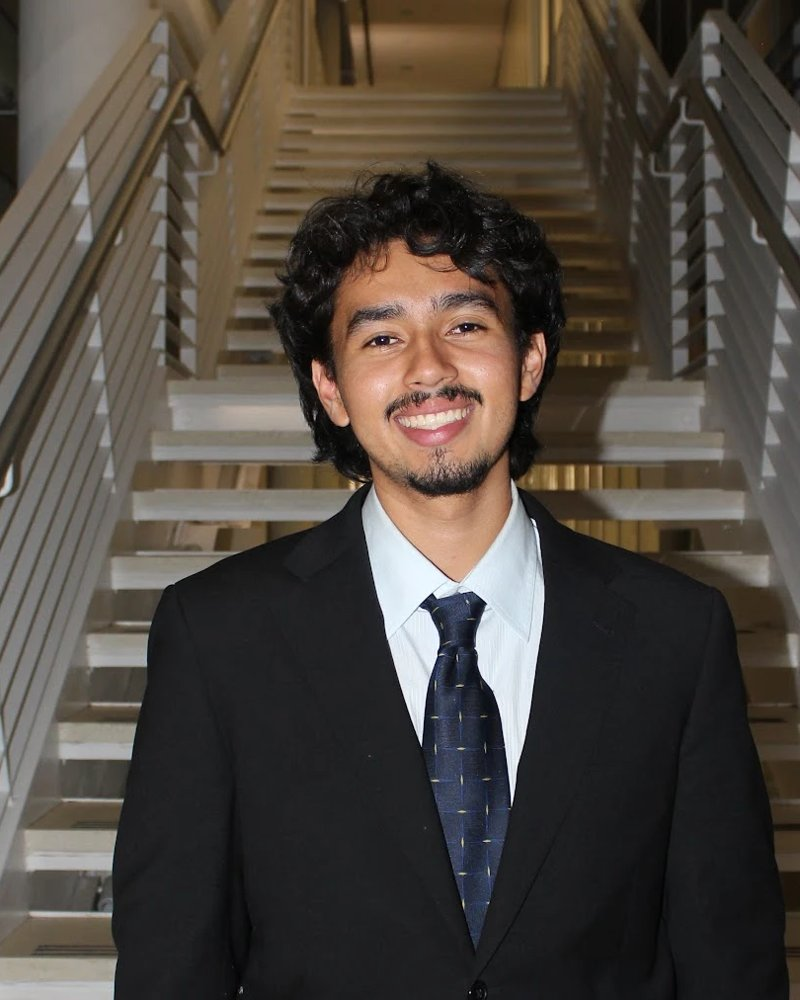
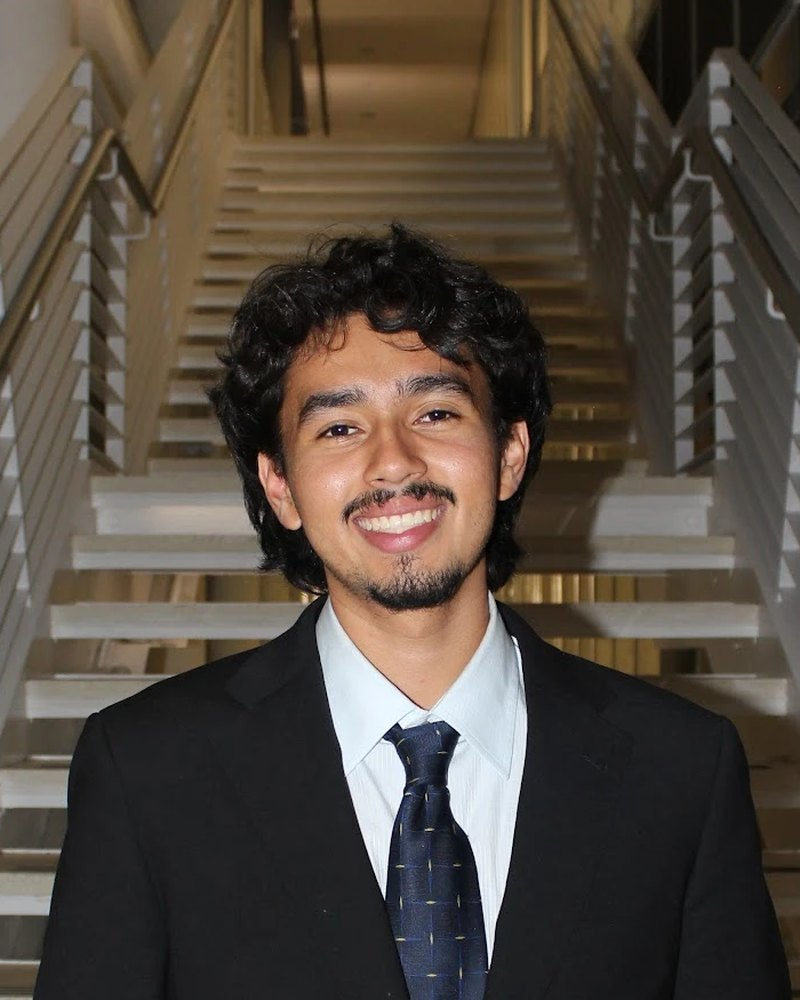
Add files via upload

diff --git a/index.html b/index.html
@@ -30,7 +30,7 @@ const CONTENT = {
     showPhone: false,                // set to true to show your phone number on the site
     linkedin: "https://www.linkedin.com/in/william-quiceno-jr-b6461a361",
     resumePdf: "",                   // optional, e.g. "photos/resume.pdf" — adds a download button
-    intro: "Supply Chain Management student at Rutgers. Fluent in Spanish. On Giants game days I fix ticketing problems in under two minutes.",
+    intro: "Supply Chain Management student at Rutgers.",
     bio: [
       "I study Supply Chain Management at Rutgers University in New Brunswick and graduate in May 2029.",
       "On Giants home games I work the gates as a Ticket Resolution Specialist, sorting out ticketing problems so fans get into an 80,000-seat stadium fast. At Mason Gross Community Arts I translate Spanish to English for guests at live performances. I also run the website and email lists for the Rutgers University Glee Club."
@@ -46,7 +46,7 @@ const CONTENT = {
     coursework: ["Intro to Management", "Intro to Supply Chain", "Macroeconomics", "Microeconomics"]
   },
 
-  // Shown in this order. "object" picks the drawing: ticket, playbill, planttag (or none).
+  // Shown in this order. "object" picks the drawing: ticket, concert, playbill, planttag (or none).
   experience: [
     {
       org: "New York Football Giants", short: "NY Giants",
@@ -61,7 +61,7 @@ const CONTENT = {
     {
       org: "Rutgers University Glee Club", short: "Glee Club",
       role: "IT Coordinator", place: "New Brunswick, NJ",
-      start: "Apr 2026", end: "Present", object: "none", kind: "Leadership",
+      start: "Apr 2026", end: "Present", object: "concert", kind: "Leadership",
       bullets: [
         "Optimized website performance, the listserv database and digital infrastructure, keeping communication reliable for 100+ active ensemble members."
       ]
@@ -316,7 +316,7 @@ main section.page.on{display:block;animation:roll .45s cubic-bezier(.2,.8,.2,1)}
   box-shadow:0 2px 8px rgba(0,0,0,.15);backdrop-filter:blur(1px);transform:rotate(-2.5deg)}
 .sleeve .cap{font:600 9px var(--mono);letter-spacing:.18em;text-align:center;color:rgba(29,32,38,.75);margin-bottom:6px}
 .photo{aspect-ratio:4/5;background:var(--paper);display:grid;place-items:center;overflow:hidden;position:relative}
-.photo img{width:100%;height:100%;object-fit:cover;object-position:50% 30%}
+.photo img{width:100%;height:100%;object-fit:cover;object-position:50% 50%}
 .photo .pending{text-align:center;color:var(--paper-soft);font:500 10px/1.4 var(--mono);letter-spacing:.1em;padding:8px}
 .photo .pending svg{width:46%;margin:0 auto 6px;opacity:.5}
 .label{position:absolute;right:5%;top:22%;width:47%;background:var(--paper);color:var(--paper-ink);padding:10px 12px 8px;
@@ -367,12 +367,13 @@ main section.page.on{display:block;animation:roll .45s cubic-bezier(.2,.8,.2,1)}
 @media (max-width:640px){ .track li{grid-template-columns:1fr auto;gap:4px 10px} .track .what{grid-column:1 / -1} }
 
 /* ---------- unpacked objects ---------- */
-.unpacked{display:grid;grid-template-columns:repeat(3,minmax(0,1fr));gap:34px;margin-top:44px;align-items:center}
+.unpacked{display:grid;grid-template-columns:repeat(2,minmax(0,1fr));gap:44px 56px;margin:44px auto 0;max-width:940px;align-items:center}
+.unpacked .ticket{max-width:400px;margin-inline:auto}
 .obj{all:unset;cursor:pointer;display:block;transition:transform .25s cubic-bezier(.2,.8,.2,1)}
 .obj:hover{transform:translateY(-6px) rotate(0deg)!important}
 .obj:focus-visible{outline:3px solid var(--safety);outline-offset:6px}
 .obj .hint{display:block;margin-top:12px;text-align:center;font:500 11px var(--mono);letter-spacing:.12em;color:var(--ink-soft);text-transform:uppercase}
-@media (max-width:900px){ .unpacked{grid-template-columns:1fr;max-width:420px;margin-inline:auto} }
+@media (max-width:760px){ .unpacked{grid-template-columns:1fr;max-width:420px;margin-inline:auto} }
 
 /* ticket stub */
 .ticket{display:grid;grid-template-columns:1fr 64px;background:var(--paper);color:var(--paper-ink);box-shadow:var(--shadow);
@@ -385,7 +386,12 @@ main section.page.on{display:block;animation:roll .45s cubic-bezier(.2,.8,.2,1)}
 .ticket .grid div{font:700 20px/1 var(--display);letter-spacing:.02em}
 .ticket .grid small{display:block;font:500 8.5px var(--mono);letter-spacing:.12em;color:var(--paper-soft);margin-bottom:2px}
 .ticket .stub{writing-mode:vertical-rl;display:flex;align-items:center;justify-content:center;gap:10px;font:600 10px var(--mono);letter-spacing:.2em;background:var(--stamp);color:#fff}
-.ticket .stub b{font:900 18px var(--display);letter-spacing:.1em}
+.ticket.concert .stub{background:#2F5D86}
+.ticket.concert .k{color:#2F5D86}
+.ticket .grid div.sm{font-size:15px;line-height:1.1}
+.ticket .stub b{font:900 15px var(--display);letter-spacing:.06em}
+.ticket .stub span{font-size:9px;letter-spacing:.1em}
+.ticket .stub{gap:6px!important;padding:8px 0;overflow:hidden}
 
 /* playbill */
 .playbill{background:var(--paper);color:var(--paper-ink);box-shadow:var(--shadow);max-width:290px;margin-inline:auto;border:1px solid rgba(0,0,0,.08)}
@@ -728,7 +734,7 @@ dialog.wide .dlg-body{padding:0;background:#0E0F12}
       <div class="shiplabel" id="shiplabel"></div>
       <div class="side">
         <div class="floor-tag">RETURN TO SENDER</div>
-        <p>Recruiting for a supply chain, operations or bilingual guest-services role? Send a message. I read every one.</p>
+        <p>Have a question, an opportunity, or just want to connect? Email me or find me on LinkedIn.</p>
         <div class="btnrow"><a class="btn solid" id="c-linkedin" target="_blank" rel="noopener">LinkedIn ↗</a>
           <button class="btn" type="button" data-open-resume>Résumé</button></div>
       </div>
@@ -779,7 +785,7 @@ dialog.wide .dlg-body{padding:0;background:#0E0F12}
   </section>
 </main>
 
-<footer><div class="wrap"><span id="foot-l"></span><span>Built as a distribution center. Every fact on this site comes from my résumé.</span></div></footer>
+<footer><div class="wrap"><span id="foot-l"></span></div></footer>
 
 <button class="clipfab" type="button" data-open-resume aria-label="Open résumé">
   <svg viewBox="0 0 26 26" fill="none" stroke="currentColor" stroke-width="1.8"><rect x="5" y="4" width="16" height="20" rx="1.5"/><rect x="9" y="2" width="8" height="4" rx="1" fill="currentColor"/><path d="M9 11h8M9 15h8M9 19h5"/></svg>
@@ -853,13 +859,19 @@ $('#track').innerHTML = C.experience.map((x,i) => {
       <button class="peek" type="button" data-exp="${i}">details</button></span></li>`; }).join('');
 
 // unpacked objects
-const tilt = ['-2deg','1.5deg','-1deg'];
+const tilt = ['-2deg','1.5deg','1deg','-1.5deg'];
 const objHTML = (x,i) => {
   if (x.object === 'ticket') return `<div class="ticket"><div class="main">
       <div class="k">GAME DAY · ${esc(x.place.toUpperCase())}</div>
       <h3>${esc(x.short)}<br>Ticket Resolution</h3>
       <div class="grid"><div><small>PATRONS / GAME</small>20,000+</div><div><small>ISSUES RESOLVED</small>100+</div>
       <div><small>HOME GAMES</small>8</div><div><small>TIME TO RESOLVE</small>&lt; 2 MIN</div></div></div>
+      <div class="stub"><b>ADMIT ONE</b><span>${esc(x.start.toUpperCase())} – ${esc(x.end.toUpperCase())}</span></div></div>`;
+  if (x.object === 'concert') return `<div class="ticket concert"><div class="main">
+      <div class="k">IT DESK · ${esc(x.place.toUpperCase())}</div>
+      <h3>${esc(x.short)}<br>${esc(x.role)}</h3>
+      <div class="grid"><div><small>MEMBERS SUPPORTED</small>100+</div><div class="sm"><small>SYSTEMS</small>Website · Listserv</div>
+      <div><small>ACDA NATIONALS</small>TOP 2%</div><div><small>APPLICANTS</small>1,000+</div></div></div>
       <div class="stub"><b>ADMIT ONE</b><span>${esc(x.start.toUpperCase())} – ${esc(x.end.toUpperCase())}</span></div></div>`;
   if (x.object === 'playbill') return `<div class="playbill"><div class="band">Front of House <span>Tonight</span></div>
       <div class="body"><div class="lang">ES <i>⇄</i> EN</div><h3>${esc(x.role.replace('Front of House ',''))}</h3>
@@ -872,7 +884,7 @@ const objHTML = (x,i) => {
   return '';
 };
 $('#unpacked').innerHTML = C.experience.map((x,i) => x.object && x.object !== 'none' ?
-  `<button class="obj" type="button" data-exp="${i}" style="transform:rotate(${tilt[i%3]})" aria-label="${esc(x.role)} at ${esc(x.org)}: open details">${objHTML(x,i)}<span class="hint">Tap to inspect</span></button>` : '').join('');
+  `<button class="obj" type="button" data-exp="${i}" style="transform:rotate(${tilt[i%4]})" aria-label="${esc(x.role)} at ${esc(x.org)}: open details">${objHTML(x,i)}<span class="hint">Tap to inspect</span></button>` : '').join('');
 
 // involvement tags
 $('#rail').innerHTML = C.involvement.map((v,i) => `<div class="ftag ${v.priority?'priority':''}" style="--d:${-i*0.9}s">
